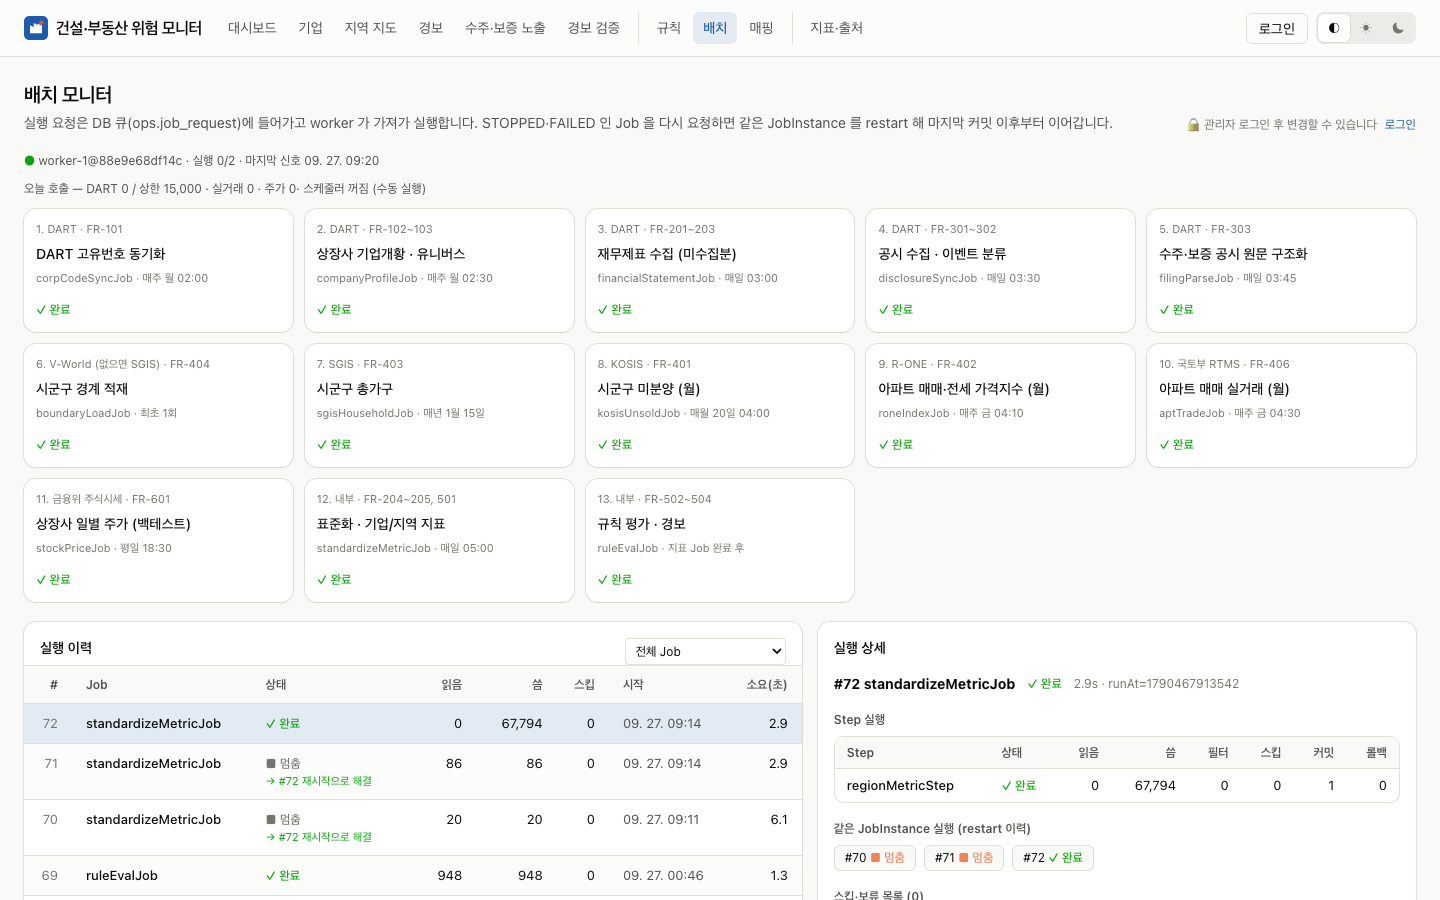
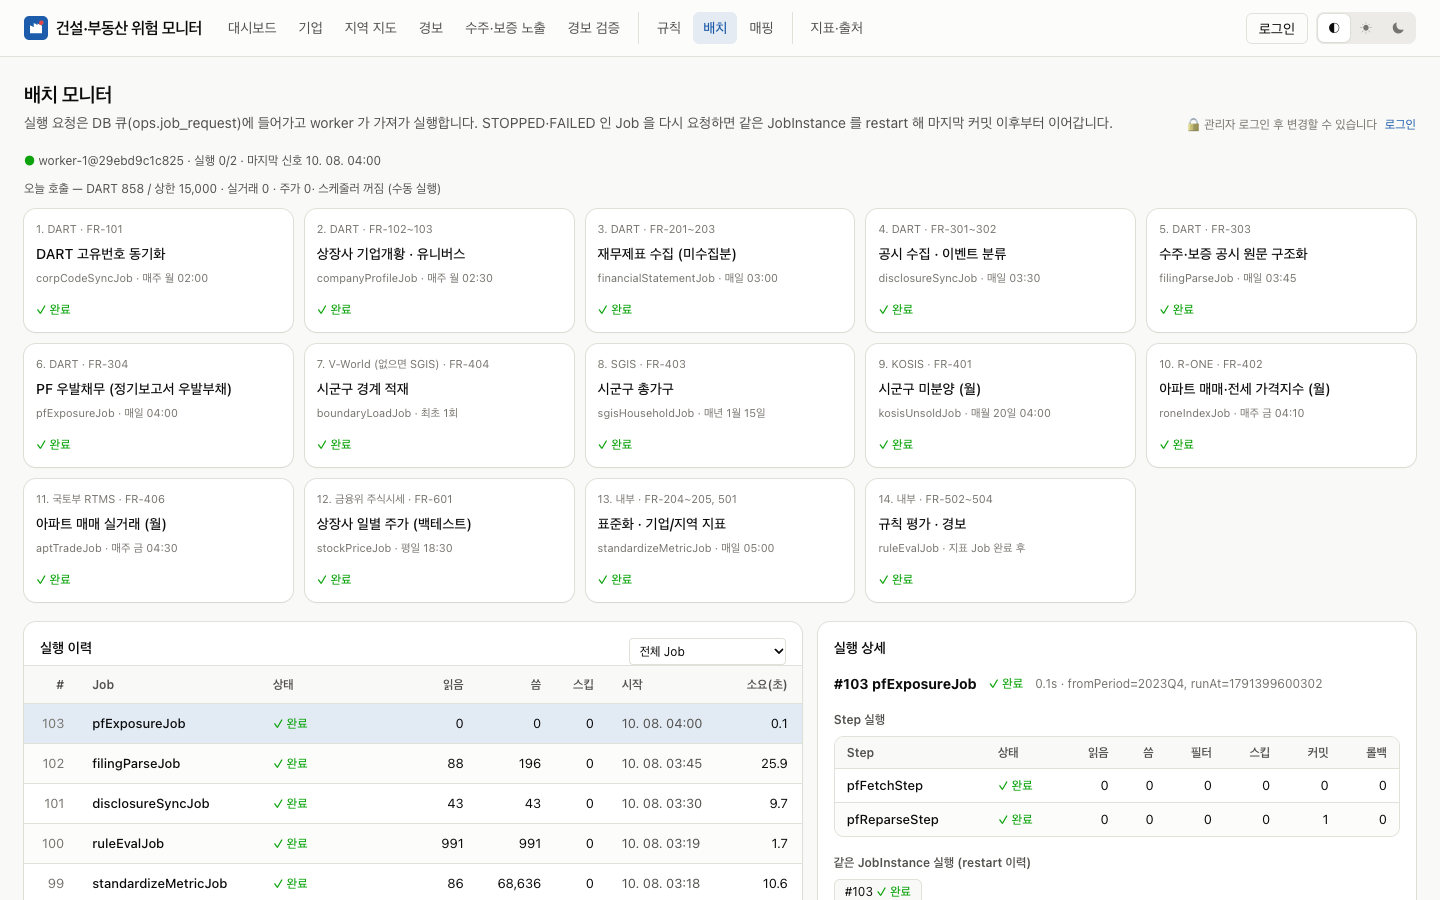
docs: 성적표 '하나라도' 수치를 R-C06 포함 값으로 맞춤 · 배치 화면 캡처 갱신
- README · ADR-023 덧붙임: 하나라도 8% (5/64, 3~17%) · 3.3배 · 5/5 · 12개월 (위 표는 R-C06 전 측정값)
- 배치 모니터 캡처(Job 14개)

diff --git a/README.md b/README.md
@@ -321,7 +321,7 @@ make ratelimit   # 한 클라이언트가 분당 한도를 넘으면 429
 | api 메모리 (1 GiB 한도, 위 부하 3회 연속) | 최대 RSS 625 MiB · 힙 ≤ 251 MB · 힙 밖 137 MB · 재시작 0 | 한도 안 |
 | 최악 조건: 50 VU 가 캐시 없이 경계 전체 반복 수신 | 205 req/s · 111 MB/s · 오류 0 · 메모리 한도 안 | — |
 | 기업 목록 쿼리 (EXPLAIN ANALYZE) | 13.8 ms → 2.1 ms (CTE `MATERIALIZED`) | — |
-| 경보 성적표 (12개월, 2021-05 ~ 2026-10, 사건 5건) | 재무 규칙 중 하나라도: 재현율 5/5 · 선행 중앙값 12개월 · 정밀도 7%(3~16%) / R-C01: 정밀도 36%(4/11, 15~65%) · 기준선 2.4% 의 15배 | — |
+| 경보 성적표 (12개월, 2021-05 ~ 2026-10, 사건 5건) | 재무 규칙 중 하나라도(R-C06 포함): 재현율 5/5 · 선행 중앙값 12개월 · 정밀도 8%(5/64, 3~17%) / R-C01: 정밀도 36%(4/11, 15~65%) · 기준선 2.4% 의 15배 | — |
 | PF 정기보고서 472건 수집 (구간 스트리밍) | 약 90 s · worker 최대 475 MiB / 1.5 GiB 한도 · 보관 14 MB — 파서를 고친 뒤 재파싱 468건 약 6 s(호출 0) | 일일 상한 15,000 이내 |
 | 반복 순차 스캔 → `V15` 인덱스 (EXPLAIN ANALYZE) | 최신 공시일 1.34 → 0.04 ms · 기업별 최신 기간 1.21 → 0.28 ms · 지역별 출처 코드 0.38 → 0.03 ms | — |
 | 화면 첫 로드 JS (`next build`) | 기업 상세 224 → 104 KB · 지도 224 → 102 KB (차트 지연 로드) — 나머지 화면 약 96 KB | — |

diff --git a/docs/adr/023-alert-scorecard.md b/docs/adr/023-alert-scorecard.md
@@ -59,3 +59,4 @@ PF 우발채무 규칙 R-C06(ADR-024)을 성적표에 넣었다. PF 종합요약
 R-C06 이 볼 수 없던 사건(태영건설 2023-12)이 '놓침'으로 셈된다. 그래서 **규칙마다 주 지표의 가장 이른 근거 공시일을 관측 시작**으로 두고
 (R-C01 부채비율 · R-C02 이자보상배율 · R-C03 분기 영업현금흐름 · R-C06 PF 보증/자기자본) 그보다 이른 사건은 그 규칙으로 '평가 불가'.
 기준선 · '하나라도'는 가장 이른 관측 시작을 쓴다. 12개월 결과: R-C06 관측 시작 2024-03-14, 평가 가능 사건 4건 중 1건, 에피소드 15개 중 11개 판정 보류.
+R-C06 을 넣은 뒤 '하나라도'는 8% (5/64, 3~17%) · 3.3배 · 5/5 · 12.0개월(위 표는 R-C06 전의 측정값).
